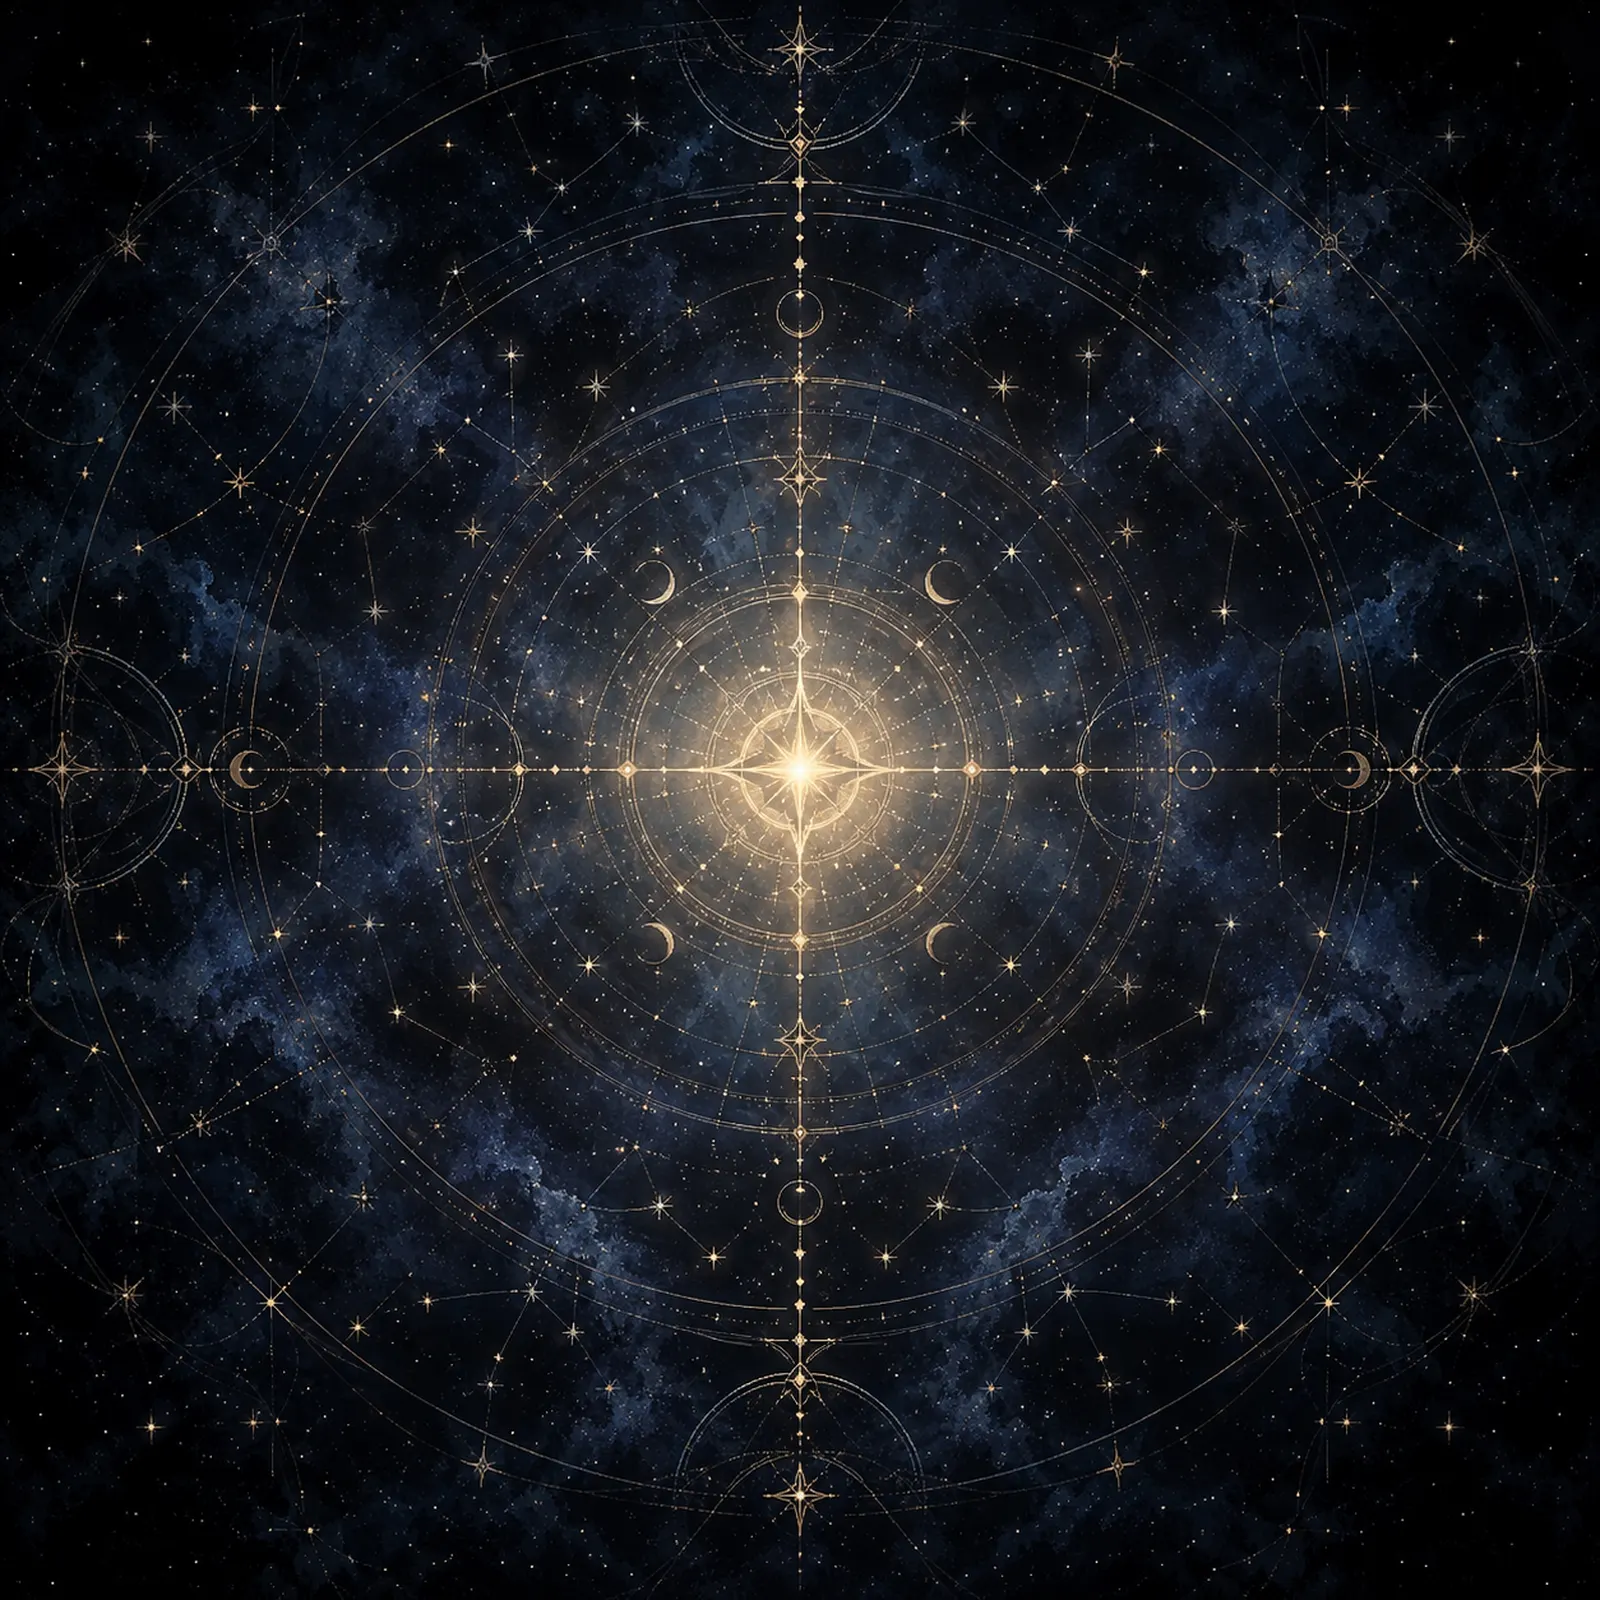
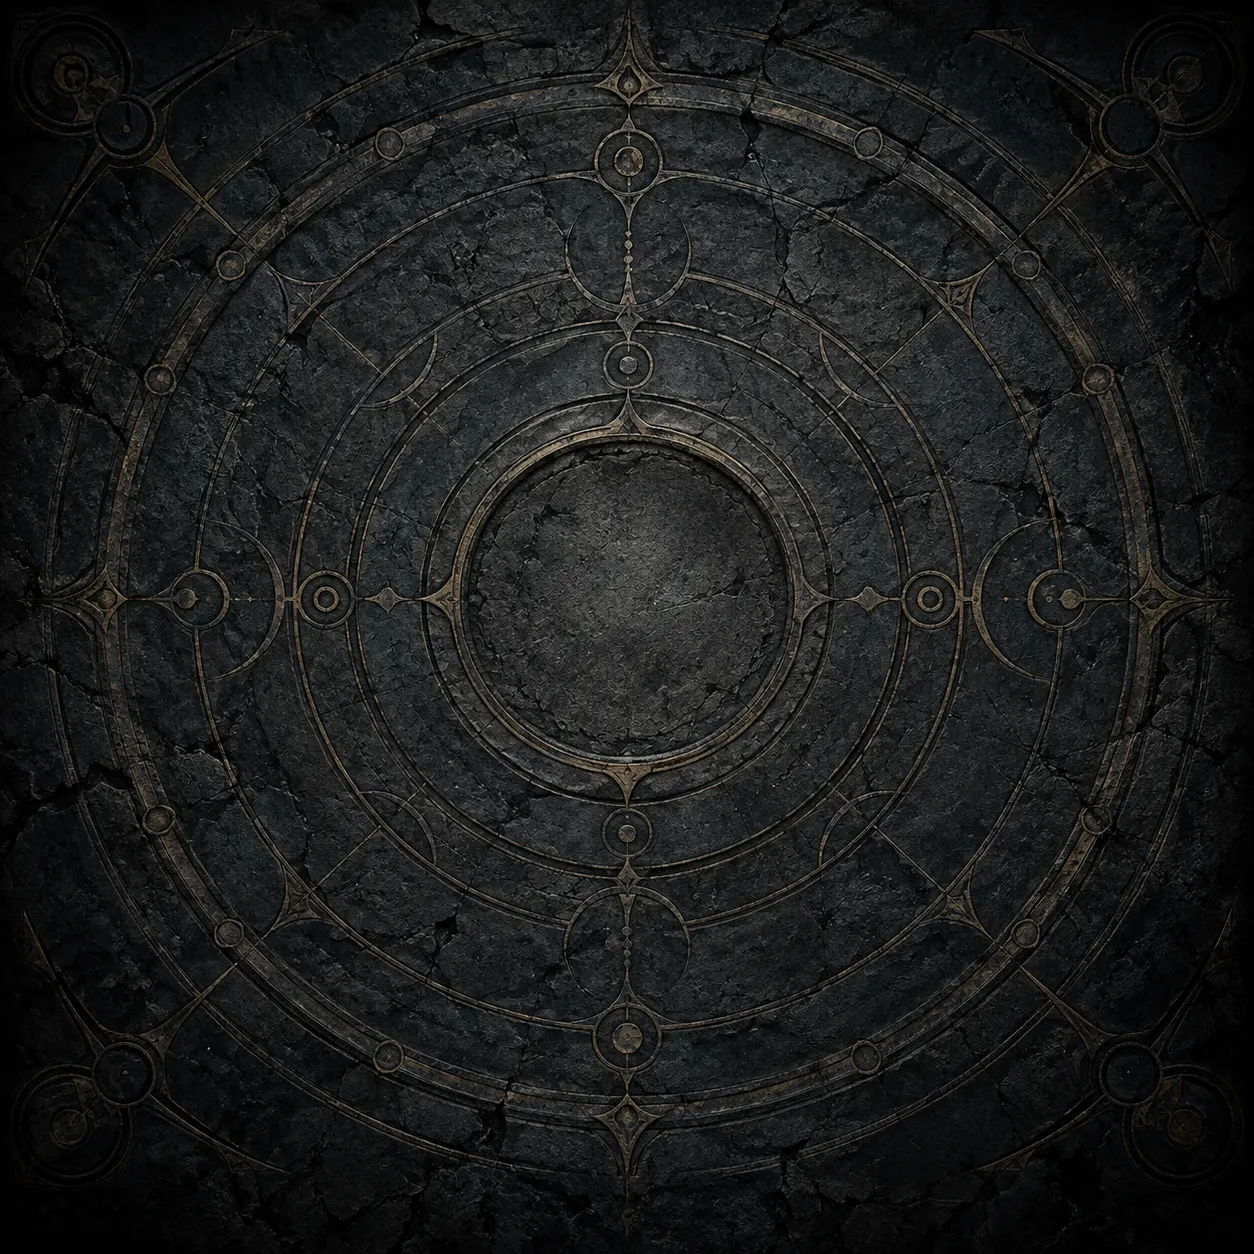
feat(v2cap): アセンションの背景を暗い石板に（ユーザーが ChatGPT で作った絵）・まだ開いていない線をくすんだ真鍮色に
- ユーザー「背景キラキラしてて醜いかも、もう少し暗めの石板っぽくしたい」→「アセンション背景２.png」（同心円の彫り・真鍮の象嵌・真ん中のくぼみに起点が乗る）
- tools/v2cap-asc-art.mjs：背景は名前に「背景」が入った絵のいちばん新しいもの（前の星図は置いたまま）・元の絵より大きくしない
- まだ開いていない線は青→くすんだ真鍮色（石板・枠になじむように）。開いた線の金色・ルートの白い点線はそのまま
- SQL不要

diff --git a/src/v2cap/components/V2capAscension.jsx b/src/v2cap/components/V2capAscension.jsx
@@ -39,6 +39,8 @@ const SKILL_C = '#5ce1e6'   // スキルマス（水色）
 const GOLD = '#ffcc00'
 const LINK_ON = '#ffe7a3'   // 開いたマスどうしの線（光る）
 const ROUTE = '#ffffff'     // 選んだルート（白の点線）
+// まだ開いていない線（くすんだ真鍮色＝2026-10-14 背景を暗い石板にしたので、背景の象嵌・タイルの枠に合わせた。前は青）
+const LINK_OFF = '#8a7350'
 const colorOf = (node) => (node.type === 'skill' ? SKILL_C : node.type === 'start' ? GOLD : ASC_STAT_COLOR[node.stat] || '#88ccff')
 // 盤の座標 → 画面の座標（1方向目＝上・時計回りに 右・下・左）
 const sx = (n) => n.y
@@ -464,7 +466,7 @@ export default function V2capAscension({ prof, onProfile }) {
               )
             }
             return (
-              <line key={`${a.id}-${b.id}`} {...pos} stroke={rt ? ROUTE : '#2a4a7c'} strokeWidth={rt ? 0.06 : 0.05}
+              <line key={`${a.id}-${b.id}`} {...pos} stroke={rt ? ROUTE : LINK_OFF} strokeWidth={rt ? 0.06 : 0.05}
                 strokeDasharray={rt ? '0.14 0.1' : undefined} opacity={rt ? 0.9 : 0.8} />
             )
           })}

diff --git a/src/v2cap/lib/ascArtList.js b/src/v2cap/lib/ascArtList.js
@@ -12,5 +12,5 @@ export const ASC_ART = {
   skill: 'fcda2617',
   big: 'd196a387',
   start: '2373fb79',
-  bg: 'fc73ed27'
+  bg: 'dbf8abf4'
 }
